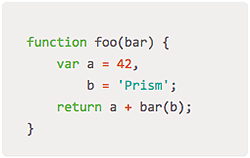
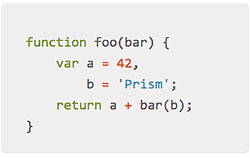
a few different values for yellow, green and cyan

diff --git a/themes/prism-base16-atelierforest.light.css b/themes/prism-base16-atelierforest.light.css
@@ -75,7 +75,7 @@ pre[class*="language-"] {
 }
 
 .token.property {
-  color: #d5911a;
+  color: #c38418;
 }
 
 .token.tag {
@@ -83,7 +83,7 @@ pre[class*="language-"] {
 }
 
 .token.string {
-  color: #00ad9c;
+  color: #3d97b8;
 }
 
 .token.selector {
@@ -98,7 +98,7 @@ pre[class*="language-"] {
 .token.url,
 .language-css .token.string,
 .style .token.string {
-  color: #00ad9c;
+  color: #3d97b8;
 }
 
 .token.attr-value,
@@ -106,13 +106,13 @@ pre[class*="language-"] {
 .token.control,
 .token.directive,
 .token.unit {
-  color: #5ab738;
+  color: #7b9726;
 }
 
 .token.statement,
 .token.regex,
 .token.atrule {
-  color: #00ad9c;
+  color: #3d97b8;
 }
 
 .token.placeholder,
